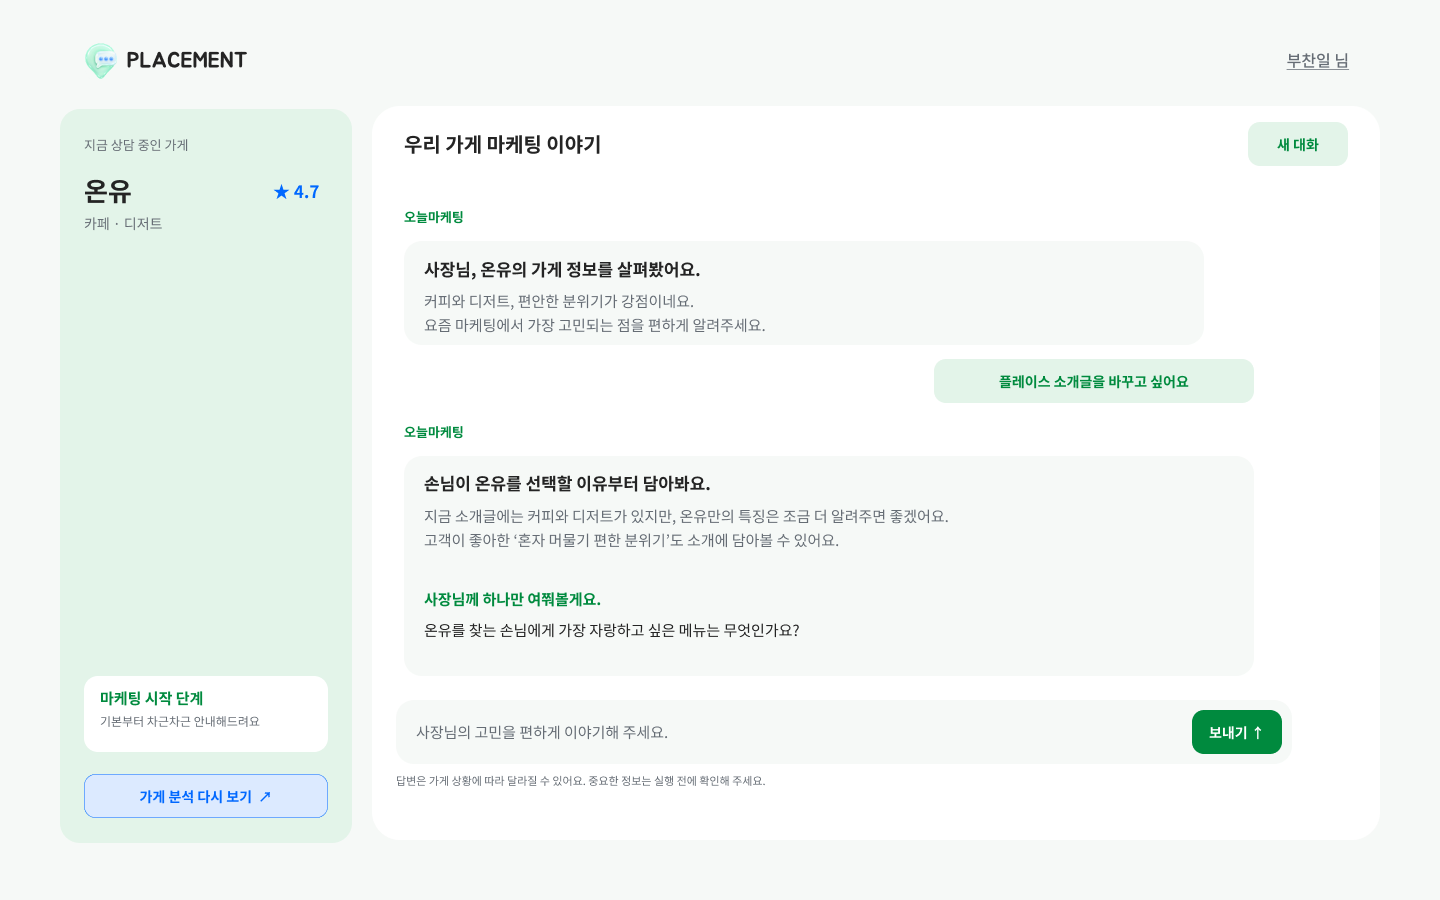
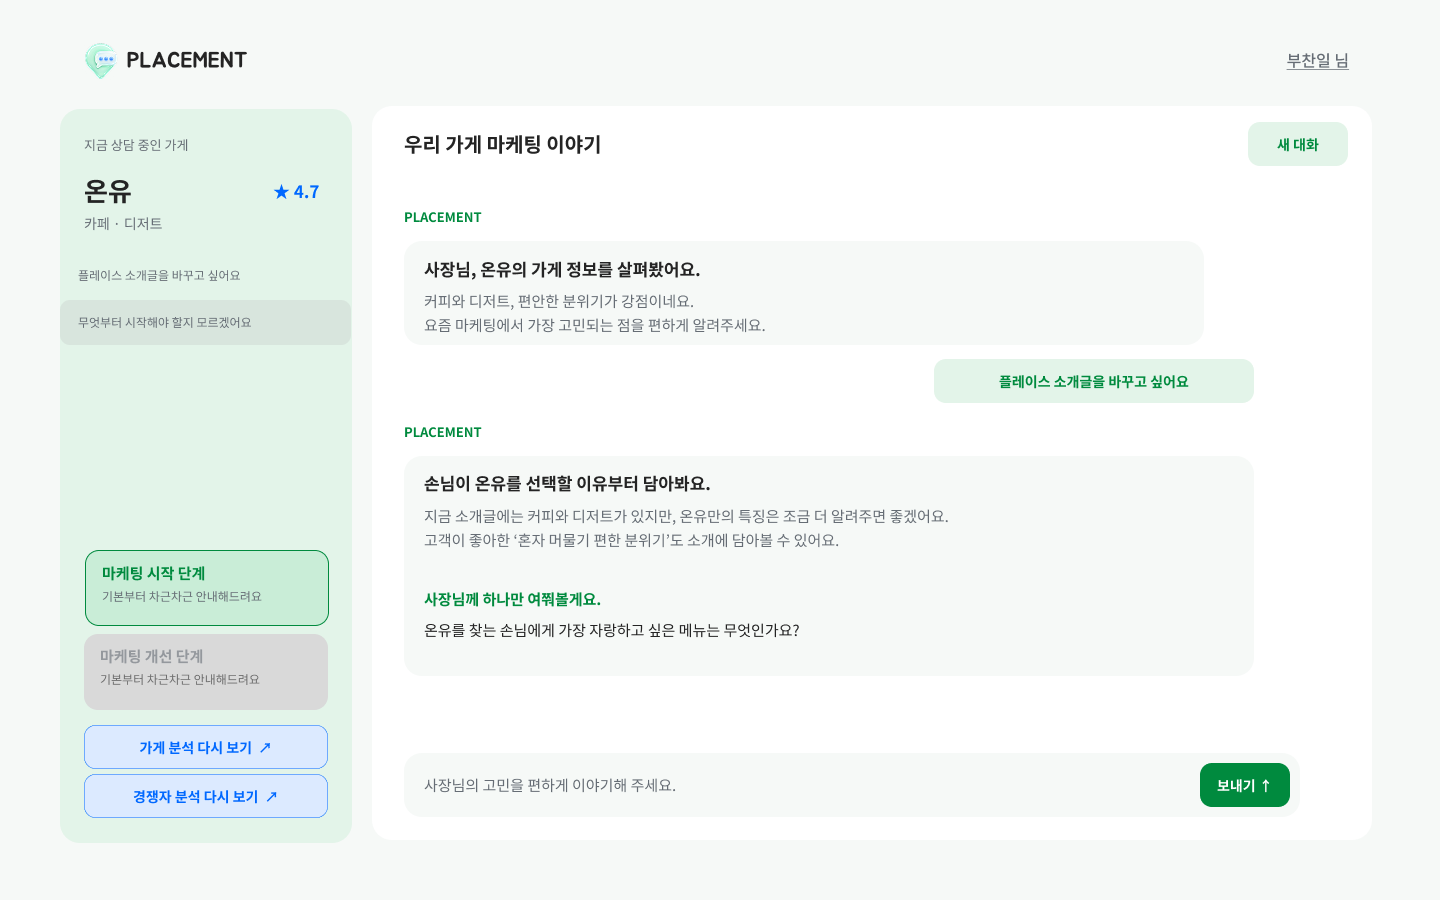
feat: 최신 상담 시안에 맞춰 레이아웃과 질문 목록 갱신

diff --git a/components/ConsultView.tsx b/components/ConsultView.tsx
@@ -198,13 +198,15 @@ function ChatRoom({
 }) {
   const [turns, setTurns] = useState<Turn[]>([]);
   const [draft, setDraft] = useState("");
+  const [activeTurn, setActiveTurn] = useState<number | null>(null);
+  const turnRefs = useRef(new Map<number, HTMLDivElement>());
   const nextId = useRef(1);
   const endRef = useRef<HTMLDivElement>(null);
   const busy = turns.some((t) => t.status === "streaming");
   const stage = stageOf(answers);
 
   useEffect(() => {
-    endRef.current?.scrollIntoView({ block: "end", behavior: "smooth" });
+    if (turns.length) endRef.current?.scrollIntoView({ block: "nearest", behavior: "smooth" });
   }, [turns]);
 
   function patch(id: number, fn: (t: Turn) => Turn) {
@@ -215,6 +217,7 @@ function ChatRoom({
     const question = text.trim();
     if (!question || busy) return;
     const id = nextId.current++;
+    setActiveTurn(id);
     setTurns((all) => [...all, { id, question, answer: "", status: "streaming", evidence: [] }]);
     setDraft("");
     try {
@@ -256,67 +259,92 @@ function ChatRoom({
   }
 
   const greetingBody = topKeywords.length
-    ? `손님들이 '${topKeywords.join("', '")}' 같은 점을 좋게 봤어요. 이 강점을 더 잘 알릴 방법을 함께 찾아볼게요. 요즘 가게 마케팅에서 가장 고민되는 점은 무엇인가요?`
+    ? `손님들이 '${topKeywords.join("', '")}' 같은 점을 좋게 봤어요.\n이 강점을 더 잘 알릴 방법을 함께 찾아볼게요.\n요즘 가게 마케팅에서 가장 고민되는 점은 무엇인가요?`
     : "요즘 가게 마케팅에서 가장 고민되는 점을 편하게 알려주세요.";
 
   return (
-    <main className="mx-auto grid w-full max-w-[1320px] gap-5 px-4 pb-10 sm:px-0 lg:grid-cols-[292px_1fr]">
-      {/* 왼쪽: 상담 중인 가게 */}
-      <aside className="flex flex-col rounded-card bg-secondary px-6 py-8 lg:min-h-[734px]">
+    <main className="mx-auto mt-4 grid w-full max-w-[1320px] gap-5 px-4 pb-10 sm:px-6 lg:grid-cols-[292px_minmax(0,1fr)] xl:px-0">
+      <aside className="flex min-w-0 flex-col rounded-card bg-secondary px-6 py-7 lg:h-[calc(100dvh-166px)] lg:min-h-[620px]">
         <p className="text-[13px] text-muted-foreground">지금 상담 중인 가게</p>
         <div className="mt-5 flex items-start justify-between gap-2">
           <p className="break-keep text-2xl font-bold">{store.name}</p>
           {store.rating != null && <p className="mt-1 shrink-0 font-bold text-star">★ {store.rating.toFixed(1)}</p>}
         </div>
         <p className="mt-1 text-sm text-muted-foreground">{store.category.split(",").join(" · ")}</p>
-        <div className="flex-1" />
-        {stage && (
-          <div className="mt-8 rounded-tile bg-card px-4 py-4">
-            <p className="font-bold text-primary">{stage.name}</p>
-            <p className="mt-1 text-xs text-muted-foreground">{stage.desc}</p>
-            <button type="button" onClick={onRedo} className="mt-2 text-xs text-muted-foreground underline underline-offset-2">
-              답 다시 고르기
+
+        <nav aria-label="현재 대화 질문 목록" className="-mx-6 mt-5 max-h-40 overflow-y-auto lg:max-h-none lg:min-h-0 lg:flex-1">
+          {turns.map((turn) => (
+            <button
+              key={turn.id}
+              type="button"
+              aria-current={activeTurn === turn.id ? "true" : undefined}
+              onClick={() => {
+                setActiveTurn(turn.id);
+                turnRefs.current.get(turn.id)?.scrollIntoView({ block: "start", behavior: "smooth" });
+              }}
+              className={`block w-full rounded-xl px-[18px] py-3.5 text-left text-xs leading-relaxed text-muted-foreground transition hover:bg-primary/5 ${activeTurn === turn.id ? "bg-primary/10" : ""}`}
+            >
+              {turn.question}
             </button>
-          </div>
-        )}
-        <Link
-          href={competitorId ? `/compare/${encodeURIComponent(store.placeId)}/${encodeURIComponent(competitorId)}` : `/compare/${encodeURIComponent(store.placeId)}`}
-          className="mt-6 flex h-11 items-center justify-center rounded-xl border border-on-border bg-card text-sm font-bold text-primary"
-        >
-          {competitorId ? "경쟁 가게 비교 다시 보기 ↗" : "경쟁 가게와 비교하기 ↗"}
-        </Link>
+          ))}
+        </nav>
+
+        <div className="mt-6 flex flex-col gap-2">
+          {[
+            { name: "마케팅 시작 단계", desc: "기본부터 차근차근 안내해드려요" },
+            { name: "마케팅 개선 단계", desc: "지금 하는 마케팅을 더 잘하도록 도와드려요" },
+          ].map((item) => (
+            <div key={item.name} className={`rounded-tile border px-4 py-3 ${stage?.name === item.name ? "border-primary bg-on-border" : "border-transparent bg-[#d9d9d9]"}`}>
+              <p className={`text-sm font-bold ${stage?.name === item.name ? "text-primary" : "text-off-text"}`}>{item.name}</p>
+              <p className="mt-1 text-xs leading-relaxed text-muted-foreground">{item.desc}</p>
+            </div>
+          ))}
+          <button type="button" onClick={onRedo} className="self-start text-xs text-muted-foreground underline underline-offset-2">
+            성향 답 다시 고르기
+          </button>
+        </div>
         <Link
           href={`/result/${encodeURIComponent(store.placeId)}`}
-          className="mt-2.5 flex h-11 items-center justify-center rounded-xl border border-[#9cc0ff] bg-[#eaf2ff] text-sm font-bold text-info-foreground"
+          className="mt-3 flex min-h-11 items-center justify-center rounded-xl border border-[#9cc0ff] bg-[#dcebff] px-2 text-sm font-bold text-star"
         >
           가게 분석 다시 보기 ↗
+        </Link>
+        <Link
+          href={competitorId ? `/compare/${encodeURIComponent(store.placeId)}/${encodeURIComponent(competitorId)}` : `/compare/${encodeURIComponent(store.placeId)}`}
+          className="mt-1.5 flex min-h-11 items-center justify-center rounded-xl border border-[#9cc0ff] bg-[#dcebff] px-2 text-sm font-bold text-star"
+        >
+          {competitorId ? "경쟁자 분석 다시 보기 ↗" : "경쟁 가게와 비교하기 ↗"}
         </Link>
       </aside>
 
       {/* 오른쪽: 대화 */}
-      <section className="flex flex-col rounded-[32px] bg-card px-5 py-6 sm:px-8 lg:min-h-[734px]">
-        <header className="flex items-center justify-between">
-          <h1 className="text-xl font-bold">우리 가게 마케팅 이야기</h1>
+      <section className="flex min-w-0 flex-col rounded-card bg-card px-5 pb-[22px] pt-4 sm:px-8 lg:h-[calc(100dvh-166px)] lg:min-h-[620px]">
+        <header className="flex items-center justify-between gap-3">
+          <h1 className="min-w-0 break-keep text-lg font-bold sm:text-xl">우리 가게 마케팅 이야기</h1>
           <button
             type="button"
-            onClick={() => setTurns([])}
+            onClick={() => {
+              setTurns([]);
+              setDraft("");
+              setActiveTurn(null);
+            }}
             disabled={busy}
-            className="h-11 rounded-xl bg-secondary px-7 text-sm font-bold text-primary disabled:opacity-50"
+            className="h-11 shrink-0 rounded-xl bg-secondary px-4 text-sm font-bold text-primary disabled:opacity-50 sm:px-7"
           >
             새 대화
           </button>
         </header>
 
-        <div className="mt-8 flex max-h-[520px] flex-1 flex-col gap-5 overflow-y-auto pr-1" aria-live="polite">
+        <div className="mt-10 flex min-h-[340px] flex-1 flex-col gap-3.5 overflow-y-auto pr-1 lg:min-h-0" aria-live="polite">
           <BotBubble>
             <p className="text-[17px] font-bold">사장님, {store.name}의 가게 정보를 살펴봤어요.</p>
-            <p className="mt-2 text-[15px] leading-relaxed text-muted-foreground">{greetingBody}</p>
+            <p className="mt-2 whitespace-pre-line text-[15px] leading-relaxed text-muted-foreground">{greetingBody}</p>
           </BotBubble>
 
           {turns.length === 0 && (
-            <div className="flex flex-col items-end gap-2">
+            <div className="flex flex-col items-start gap-2.5">
               {QUICK.map((q) => (
-                <button key={q} type="button" onClick={() => void send(q)} className="rounded-xl bg-secondary px-6 py-2.5 text-sm font-bold text-primary hover:brightness-95">
+                <button key={q} type="button" onClick={() => void send(q)} className="min-h-11 w-full max-w-[350px] rounded-xl bg-secondary px-5 py-2.5 text-sm font-bold text-primary hover:brightness-95 focus-visible:outline-2 focus-visible:outline-offset-2 focus-visible:outline-primary">
                   {q}
                 </button>
               ))}
@@ -324,8 +352,11 @@ function ChatRoom({
           )}
 
           {turns.map((t) => (
-            <div key={t.id} className="flex flex-col gap-5">
-              <p className="self-end rounded-xl bg-secondary px-6 py-2.5 text-sm font-bold text-primary">{t.question}</p>
+            <div key={t.id} ref={(node) => {
+              if (node) turnRefs.current.set(t.id, node);
+              else turnRefs.current.delete(t.id);
+            }} className="flex scroll-mt-2 flex-col gap-5">
+              <p className="min-h-11 max-w-full self-end break-words rounded-xl bg-secondary px-6 py-2.5 text-sm font-bold text-primary sm:min-w-[320px] sm:max-w-[80%] sm:text-center">{t.question}</p>
               {t.status === "unavailable" && <BotBubble>{UNAVAILABLE}</BotBubble>}
               {t.status === "error" && !t.answer && <BotBubble>{FAILED}</BotBubble>}
               {t.status === "streaming" && !t.answer && (
@@ -364,7 +395,7 @@ function ChatRoom({
         </div>
 
         <form
-          className="mt-6 flex h-16 items-center gap-3 rounded-tile bg-off-bg pl-5 pr-2.5"
+          className="mt-6 flex min-h-16 shrink-0 items-center gap-3 rounded-tile bg-background pl-5 pr-2.5"
           onSubmit={(e) => {
             e.preventDefault();
             void send(draft);
@@ -386,7 +417,7 @@ function ChatRoom({
             보내기 <ArrowUp className="size-4" aria-hidden />
           </button>
         </form>
-        <p className="mt-2 text-[11px] text-muted-foreground">답변은 가게 상황에 따라 달라질 수 있어요. 중요한 정보는 실행 전에 확인해 주세요.</p>
+        <p className="sr-only">답변은 가게 상황에 따라 달라질 수 있어요. 중요한 정보는 실행 전에 확인해 주세요.</p>
       </section>
     </main>
   );
@@ -394,9 +425,9 @@ function ChatRoom({
 
 function BotBubble({ children }: { children: React.ReactNode }) {
   return (
-    <div className="max-w-[850px]">
+    <div className="w-full max-w-[850px] shrink-0">
       <p className="text-[13px] font-bold text-primary">{SERVICE_NAME}</p>
-      <div className="mt-2 rounded-[20px] bg-off-bg px-5 py-4">{children}</div>
+      <div className="mt-3.5 break-words rounded-[20px] bg-background px-5 py-4">{children}</div>
     </div>
   );
 }
